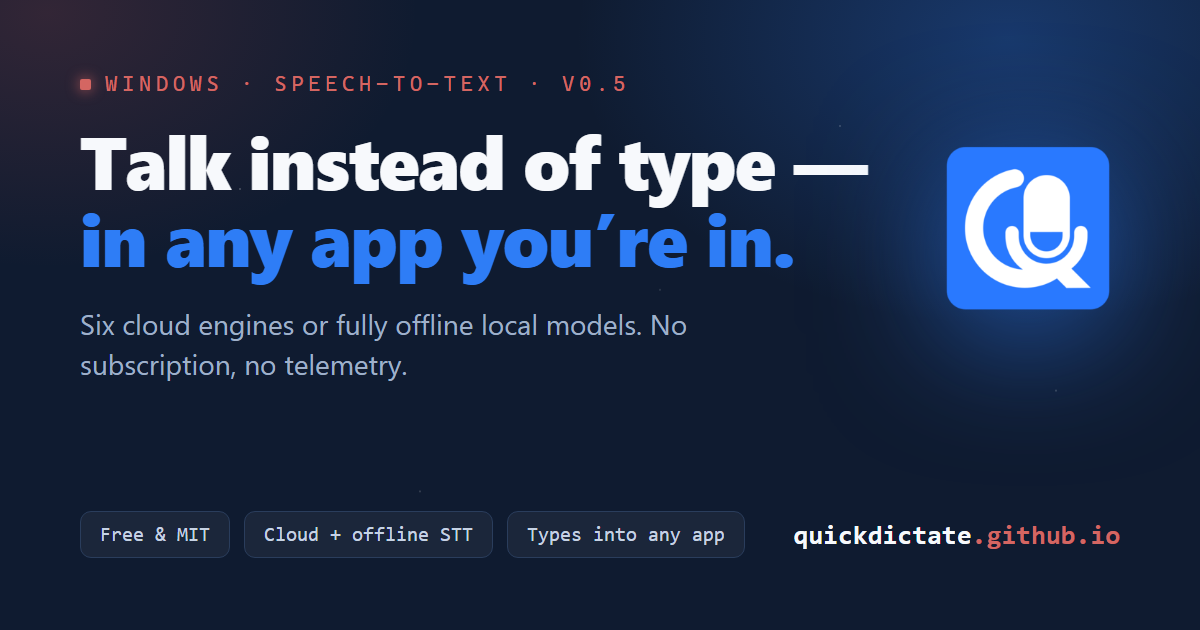
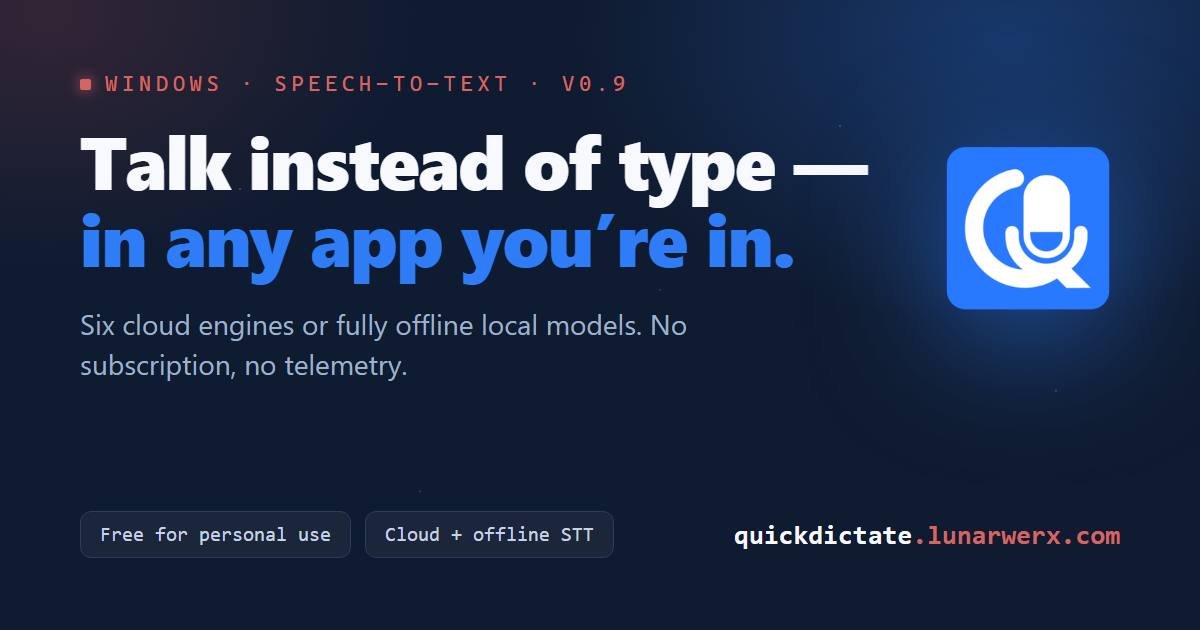
v0.9.0: PolyForm Noncommercial wording, new Settings screenshot, refreshed social card
The app is free for personal and other noncommercial use under PolyForm
Noncommercial 1.0.0 from v0.9.0 on (source available; commercial use by
separate license), so every "free and open source / MIT" line on the page, in
llms.txt, llms-full.txt, pricing.md, and the JSON-LD says that instead. Version
strings and sitemap dates moved to 0.9.0 / 2026-09-10. assets/settings.png is
the new five-page Settings window; the social card drops its MIT badge and
its redundant third badge so the lunarwerx.com domain fits.

Changed region(s): [[0.1233, 0.8143, 0.6783, 0.8746], [0.7092, 0.8143, 0.9558, 0.8746], [0.4933, 0.1206, 0.5242, 0.1508]]

diff --git a/index.html b/index.html
@@ -4,21 +4,21 @@
 <meta charset="utf-8">
 <meta name="viewport" content="width=device-width, initial-scale=1">
 <title>QuickDictate — Cloud or offline speech-to-text for Windows</title>
-<meta name="description" content="A tiny Windows tray app for speech-to-text. Six bring-your-own-key cloud providers or two offline models. Free, open source, no subscription or account.">
+<meta name="description" content="A tiny Windows tray app for speech-to-text. Six bring-your-own-key cloud providers or two offline models. Free for personal use, source available, no subscription or account.">
 <link rel="icon" href="assets/icon-256.png" type="image/png">
 <meta property="og:type" content="website">
 <meta property="og:site_name" content="QuickDictate">
 <link rel="canonical" href="https://quickdictate.lunarwerx.com/">
 <meta property="og:url" content="https://quickdictate.lunarwerx.com/">
 <meta property="og:title" content="QuickDictate — talk instead of type, in any app">
-<meta property="og:description" content="Speech-to-text for any Windows app. Choose six cloud services or fully offline local models — no subscription, no telemetry. Free & MIT-licensed.">
+<meta property="og:description" content="Speech-to-text for any Windows app. Choose six cloud services or fully offline local models — no subscription, no telemetry. Free for personal use, source available.">
 <meta property="og:image" content="https://quickdictate.lunarwerx.com/assets/og-image.png">
 <meta property="og:image:width" content="1200">
 <meta property="og:image:height" content="630">
 <meta property="og:image:alt" content="QuickDictate — cloud or fully offline speech-to-text for any Windows app">
 <meta name="twitter:card" content="summary_large_image">
 <meta name="twitter:title" content="QuickDictate — talk instead of type, in any app">
-<meta name="twitter:description" content="Speech-to-text for any Windows app. Choose six cloud services or fully offline local models — no subscription, no telemetry. Free & MIT-licensed.">
+<meta name="twitter:description" content="Speech-to-text for any Windows app. Choose six cloud services or fully offline local models — no subscription, no telemetry. Free for personal use, source available.">
 <meta name="twitter:image" content="https://quickdictate.lunarwerx.com/assets/og-image.png">
 <style>
 
@@ -695,10 +695,10 @@ a.lw-parent:hover .lw-tip,a.lw-parent:focus-visible .lw-tip{opacity:1;visibility
       "@type": "SoftwareApplication",
       "@id": "https://quickdictate.lunarwerx.com/#app",
       "name": "QuickDictate",
-      "description": "A tiny Windows tray app for speech-to-text. Six bring-your-own-key cloud providers or two offline models. Free, open source, no subscription or account.",
+      "description": "A tiny Windows tray app for speech-to-text. Six bring-your-own-key cloud providers or two offline models. Free for personal use, source available, no subscription or account.",
       "applicationCategory": "UtilitiesApplication",
       "operatingSystem": "Windows 10/11 x64",
-      "softwareVersion": "0.8.0",
+      "softwareVersion": "0.9.0",
       "url": "https://quickdictate.lunarwerx.com/",
       "downloadUrl": "https://github.com/LunarWerxs/QuickDictate/releases/latest",
       "image": "https://quickdictate.lunarwerx.com/assets/og-image.png",
@@ -754,7 +754,7 @@ a.lw-parent:hover .lw-tip,a.lw-parent:focus-visible .lw-tip{opacity:1;visibility
           "name": "Is QuickDictate free?",
           "acceptedAnswer": {
             "@type": "Answer",
-            "text": "Yes, QuickDictate is free and open source under the MIT license, with no subscription, no QuickDictate account, and no monthly bill. Cloud audio goes only to the provider you pick using your own key, and Local mode processes everything on your PC — there is no QuickDictate transcription server in the middle."
+            "text": "Yes, QuickDictate is free for personal and any other noncommercial use under the PolyForm Noncommercial license (the source is on GitHub), with no subscription, no QuickDictate account, and no monthly bill; commercial use is by separate license from LunarWerx Studios. Cloud audio goes only to the provider you pick using your own key, and Local mode processes everything on your PC — there is no QuickDictate transcription server in the middle."
           }
         },
         {
@@ -810,7 +810,7 @@ a.lw-parent:hover .lw-tip,a.lw-parent:focus-visible .lw-tip{opacity:1;visibility
           "name": "What does QuickDictate cost?",
           "acceptedAnswer": {
             "@type": "Answer",
-            "text": "QuickDictate itself is free and MIT-licensed, with no subscription, no QuickDictate account, and no paid tier. If you choose a cloud provider, you pay that provider directly under your own API key at its own pricing; Local mode's two offline models are free to download and run, with no key or account needed at all."
+            "text": "QuickDictate itself is free for noncommercial use (PolyForm Noncommercial license), with no subscription, no QuickDictate account, and no paid tier. If you choose a cloud provider, you pay that provider directly under your own API key at its own pricing; Local mode's two offline models are free to download and run, with no key or account needed at all."
           }
         }
       ]
@@ -847,7 +847,7 @@ a.lw-parent:hover .lw-tip,a.lw-parent:focus-visible .lw-tip{opacity:1;visibility
   <section class="hero container" aria-labelledby="hero-heading">
     <div class="hero-grid">
       <div>
-        <p class="eyebrow">quickdictate · v0.8.0 · windows 10/11 x64</p>
+        <p class="eyebrow">quickdictate · v0.9.0 · windows 10/11 x64</p>
         <h1 id="hero-heading">Press a key, talk, and your words land <span class="accent">wherever your cursor already is.</span></h1>
         <p class="hero-sub">Hold a hotkey and dictate into any app. Use six cloud providers, or install Cohere or Whisper for fully offline speech recognition.</p>
         <div class="hero-actions">
@@ -1115,7 +1115,7 @@ a.lw-parent:hover .lw-tip,a.lw-parent:focus-visible .lw-tip{opacity:1;visibility
               </li>
               <li>
                 <svg width="18" height="18" viewBox="0 0 24 24" fill="none"><path d="m5 12 5 5 9-10" stroke="currentColor" stroke-width="2" stroke-linecap="round" stroke-linejoin="round"/></svg>
-                <div><b>Open source, MIT-licensed</b><span class="d">It's all on GitHub under an MIT license. Poke around, fork it, build your own.</span></div>
+                <div><b>Source available, free for personal use</b><span class="d">It's all on GitHub under the PolyForm Noncommercial license. Read it, build it, change it, share it; commercial use is by separate license.</span></div>
               </li>
             </ul>
           </div>
@@ -1191,7 +1191,7 @@ a.lw-parent:hover .lw-tip,a.lw-parent:focus-visible .lw-tip{opacity:1;visibility
       <div class="feature-grid">
         <div class="card">
           <h3>Is QuickDictate free?</h3>
-          <p>Yes, QuickDictate is free and open source under the MIT license, with no subscription, no QuickDictate account, and no monthly bill. Cloud audio goes only to the provider you pick using your own key, and Local mode processes everything on your PC — there is no QuickDictate transcription server in the middle.</p>
+          <p>Yes, QuickDictate is free for personal and any other noncommercial use under the PolyForm Noncommercial license (the source is on GitHub), with no subscription, no QuickDictate account, and no monthly bill; commercial use is by separate license from LunarWerx Studios. Cloud audio goes only to the provider you pick using your own key, and Local mode processes everything on your PC — there is no QuickDictate transcription server in the middle.</p>
         </div>
         <div class="card">
           <h3>Does QuickDictate work offline?</h3>
@@ -1219,7 +1219,7 @@ a.lw-parent:hover .lw-tip,a.lw-parent:focus-visible .lw-tip{opacity:1;visibility
         </div>
         <div class="card">
           <h3>What does QuickDictate cost?</h3>
-          <p>QuickDictate itself is free and MIT-licensed, with no subscription, no QuickDictate account, and no paid tier. If you choose a cloud provider, you pay that provider directly under your own API key at its own pricing; Local mode's two offline models are free to download and run, with no key or account needed at all.</p>
+          <p>QuickDictate itself is free for noncommercial use (PolyForm Noncommercial license), with no subscription, no QuickDictate account, and no paid tier. If you choose a cloud provider, you pay that provider directly under your own API key at its own pricing; Local mode's two offline models are free to download and run, with no key or account needed at all.</p>
         </div>
       </div>
     </div>
@@ -1229,7 +1229,7 @@ a.lw-parent:hover .lw-tip,a.lw-parent:focus-visible .lw-tip{opacity:1;visibility
   <section class="cta-final container">
     <p class="eyebrow" style="justify-content:center;">// ready when you are</p>
     <h2>Ready to stop typing so much?</h2>
-    <p>v0.8.0 is free, open source, and runs on Windows 10 and 11. Start with cloud, go fully local, and switch whenever you like.</p>
+    <p>v0.9.0 is free for personal use, source available, and runs on Windows 10 and 11. Start with cloud, go fully local, and switch whenever you like.</p>
     <div class="hero-actions">
       <a class="btn btn-primary" href="https://github.com/LunarWerxs/QuickDictate/releases/latest">
         <svg width="18" height="18" viewBox="0 0 24 24" fill="none" aria-hidden="true"><path d="M12 3v13m0 0-4.5-4.5M12 16l4.5-4.5" stroke="currentColor" stroke-width="2" stroke-linecap="round" stroke-linejoin="round"/><path d="M4 19.5h16" stroke="currentColor" stroke-width="2" stroke-linecap="round"/></svg>
@@ -1253,7 +1253,7 @@ a.lw-parent:hover .lw-tip,a.lw-parent:focus-visible .lw-tip{opacity:1;visibility
       <ul class="footer-links">
         <li><a href="https://github.com/LunarWerxs/QuickDictate"><img src="assets/github_mark.png" alt="">GitHub</a></li>
         <li><a href="https://github.com/LunarWerxs/QuickDictate/releases/latest">Releases</a></li>
-        <li><a href="https://github.com/LunarWerxs/QuickDictate/blob/main/LICENSE">MIT License</a></li>
+        <li><a href="https://github.com/LunarWerxs/QuickDictate/blob/main/LICENSE">PolyForm Noncommercial License</a></li>
         <li><a href="https://lunarwerx.com">lunarwerx.com</a></li>
       </ul>
     </div>
@@ -1264,7 +1264,7 @@ a.lw-parent:hover .lw-tip,a.lw-parent:focus-visible .lw-tip{opacity:1;visibility
       <li><a href="https://rolodexter.lunarwerx.com">RoloDexter</a></li>
       <li><a href="https://normwind.lunarwerx.com">NormWind</a></li>
     </ul>
-    <p class="footer-meta">Free, open-source software. Not affiliated with any provider listed above. · Last updated: 2026-08-23</p>
+    <p class="footer-meta">Free for noncommercial use; source available. Not affiliated with any provider listed above. · Last updated: 2026-09-10</p>
   </div>
 </footer>
 

diff --git a/tools/og-card.html b/tools/og-card.html
@@ -51,7 +51,7 @@
   <div class="frame">
     <div class="top">
       <div>
-        <div class="eyebrow">Windows · Speech-to-text · v0.5</div>
+        <div class="eyebrow">Windows · Speech-to-text · v0.9</div>
         <h1>Talk instead of type —<br><span class="accent">in any app you’re in.</span></h1>
         <div class="sub">Six cloud engines or fully offline local models. No subscription, no telemetry.</div>
       </div>
@@ -59,11 +59,10 @@
     </div>
     <div class="bottom">
       <div class="badges">
-        <span class="badge">Free &amp; MIT</span>
+        <span class="badge">Free for personal use</span>
         <span class="badge">Cloud + offline STT</span>
-        <span class="badge">Types into any app</span>
       </div>
-      <div class="domain">quickdictate<b>.github.io</b></div>
+      <div class="domain">quickdictate<b>.lunarwerx.com</b></div>
     </div>
   </div>
 </body>

diff --git a/pricing.md b/pricing.md
@@ -1,8 +1,10 @@
 # QuickDictate - Pricing
 
-**QuickDictate is free and open source (MIT license).** There is no subscription, no paid
-tier, no QuickDictate account, and no purchase required to use any feature of the app
-itself.
+**QuickDictate is free for personal and any other noncommercial use (PolyForm
+Noncommercial License 1.0.0, source available).** There is no subscription, no paid tier,
+no QuickDictate account, and no purchase required to use any feature of the app itself.
+Commercial use needs a separate license from LunarWerx Studios; open a GitHub issue to
+arrange one.
 
 ## What you actually pay for
 
@@ -11,7 +13,7 @@ have, not a service it resells. It never bills you and never sees a payment meth
 
 | Component | Cost from QuickDictate | Who actually bills you |
 |---|---|---|
-| The QuickDictate app | $0 (MIT license) | nobody, LunarWerx Studios |
+| The QuickDictate app | $0 for noncommercial use (PolyForm Noncommercial license) | nobody, LunarWerx Studios |
 | Local mode: Cohere Transcribe Q5 (1.65 GiB) | $0 | nobody, runs on your PC, no key, no account |
 | Local mode: Whisper Large v3 Turbo Q5 (591 MiB) | $0 | nobody, runs on your PC, no key, no account |
 | Cloud: ElevenLabs | $0 | ElevenLabs, via the API key you supply |
@@ -27,7 +29,9 @@ QuickDictate does not set, cap, or mark those up.
 
 ## License
 
-MIT. Full text: https://github.com/LunarWerxs/QuickDictate/blob/main/LICENSE
+PolyForm Noncommercial 1.0.0, starting with v0.9.0 (releases through v0.8.0 were MIT, and
+that grant stays in effect for those copies). Full text:
+https://github.com/LunarWerxs/QuickDictate/blob/main/LICENSE
 
 ## Notes for procurement / buying agents
 

diff --git a/README.md b/README.md
@@ -18,4 +18,6 @@ and push to `main`; GitHub Pages redeploys in about a minute.
 The link-preview card (`assets/og-image.png`) comes from `tools/og-card.html`; the
 regen command is in that file's comment.
 
-MIT licensed. See [LICENSE](LICENSE) and [CHANGELOG.md](CHANGELOG.md).
+This site's own code is MIT licensed (see [LICENSE](LICENSE) and [CHANGELOG.md](CHANGELOG.md)).
+The app it describes is PolyForm Noncommercial 1.0.0 as of v0.9.0; see the
+[app's LICENSE](https://github.com/LunarWerxs/QuickDictate/blob/main/LICENSE).

diff --git a/docs/ABOUT.md b/docs/ABOUT.md
@@ -1,6 +1,6 @@
 # QuickDictate site
 
-> Marketing site for a free, MIT-licensed Windows tray app that dictates speech into any app with no subscription.
+> Marketing site for a free-for-personal-use, source-available (PolyForm Noncommercial) Windows tray app that dictates speech into any app with no subscription.
 
 <!-- odin:about HAND-OWNED above the GENERATED marker. Edit freely; `odin codex about --ingest` carries it back into Odin's Codex. -->
 
